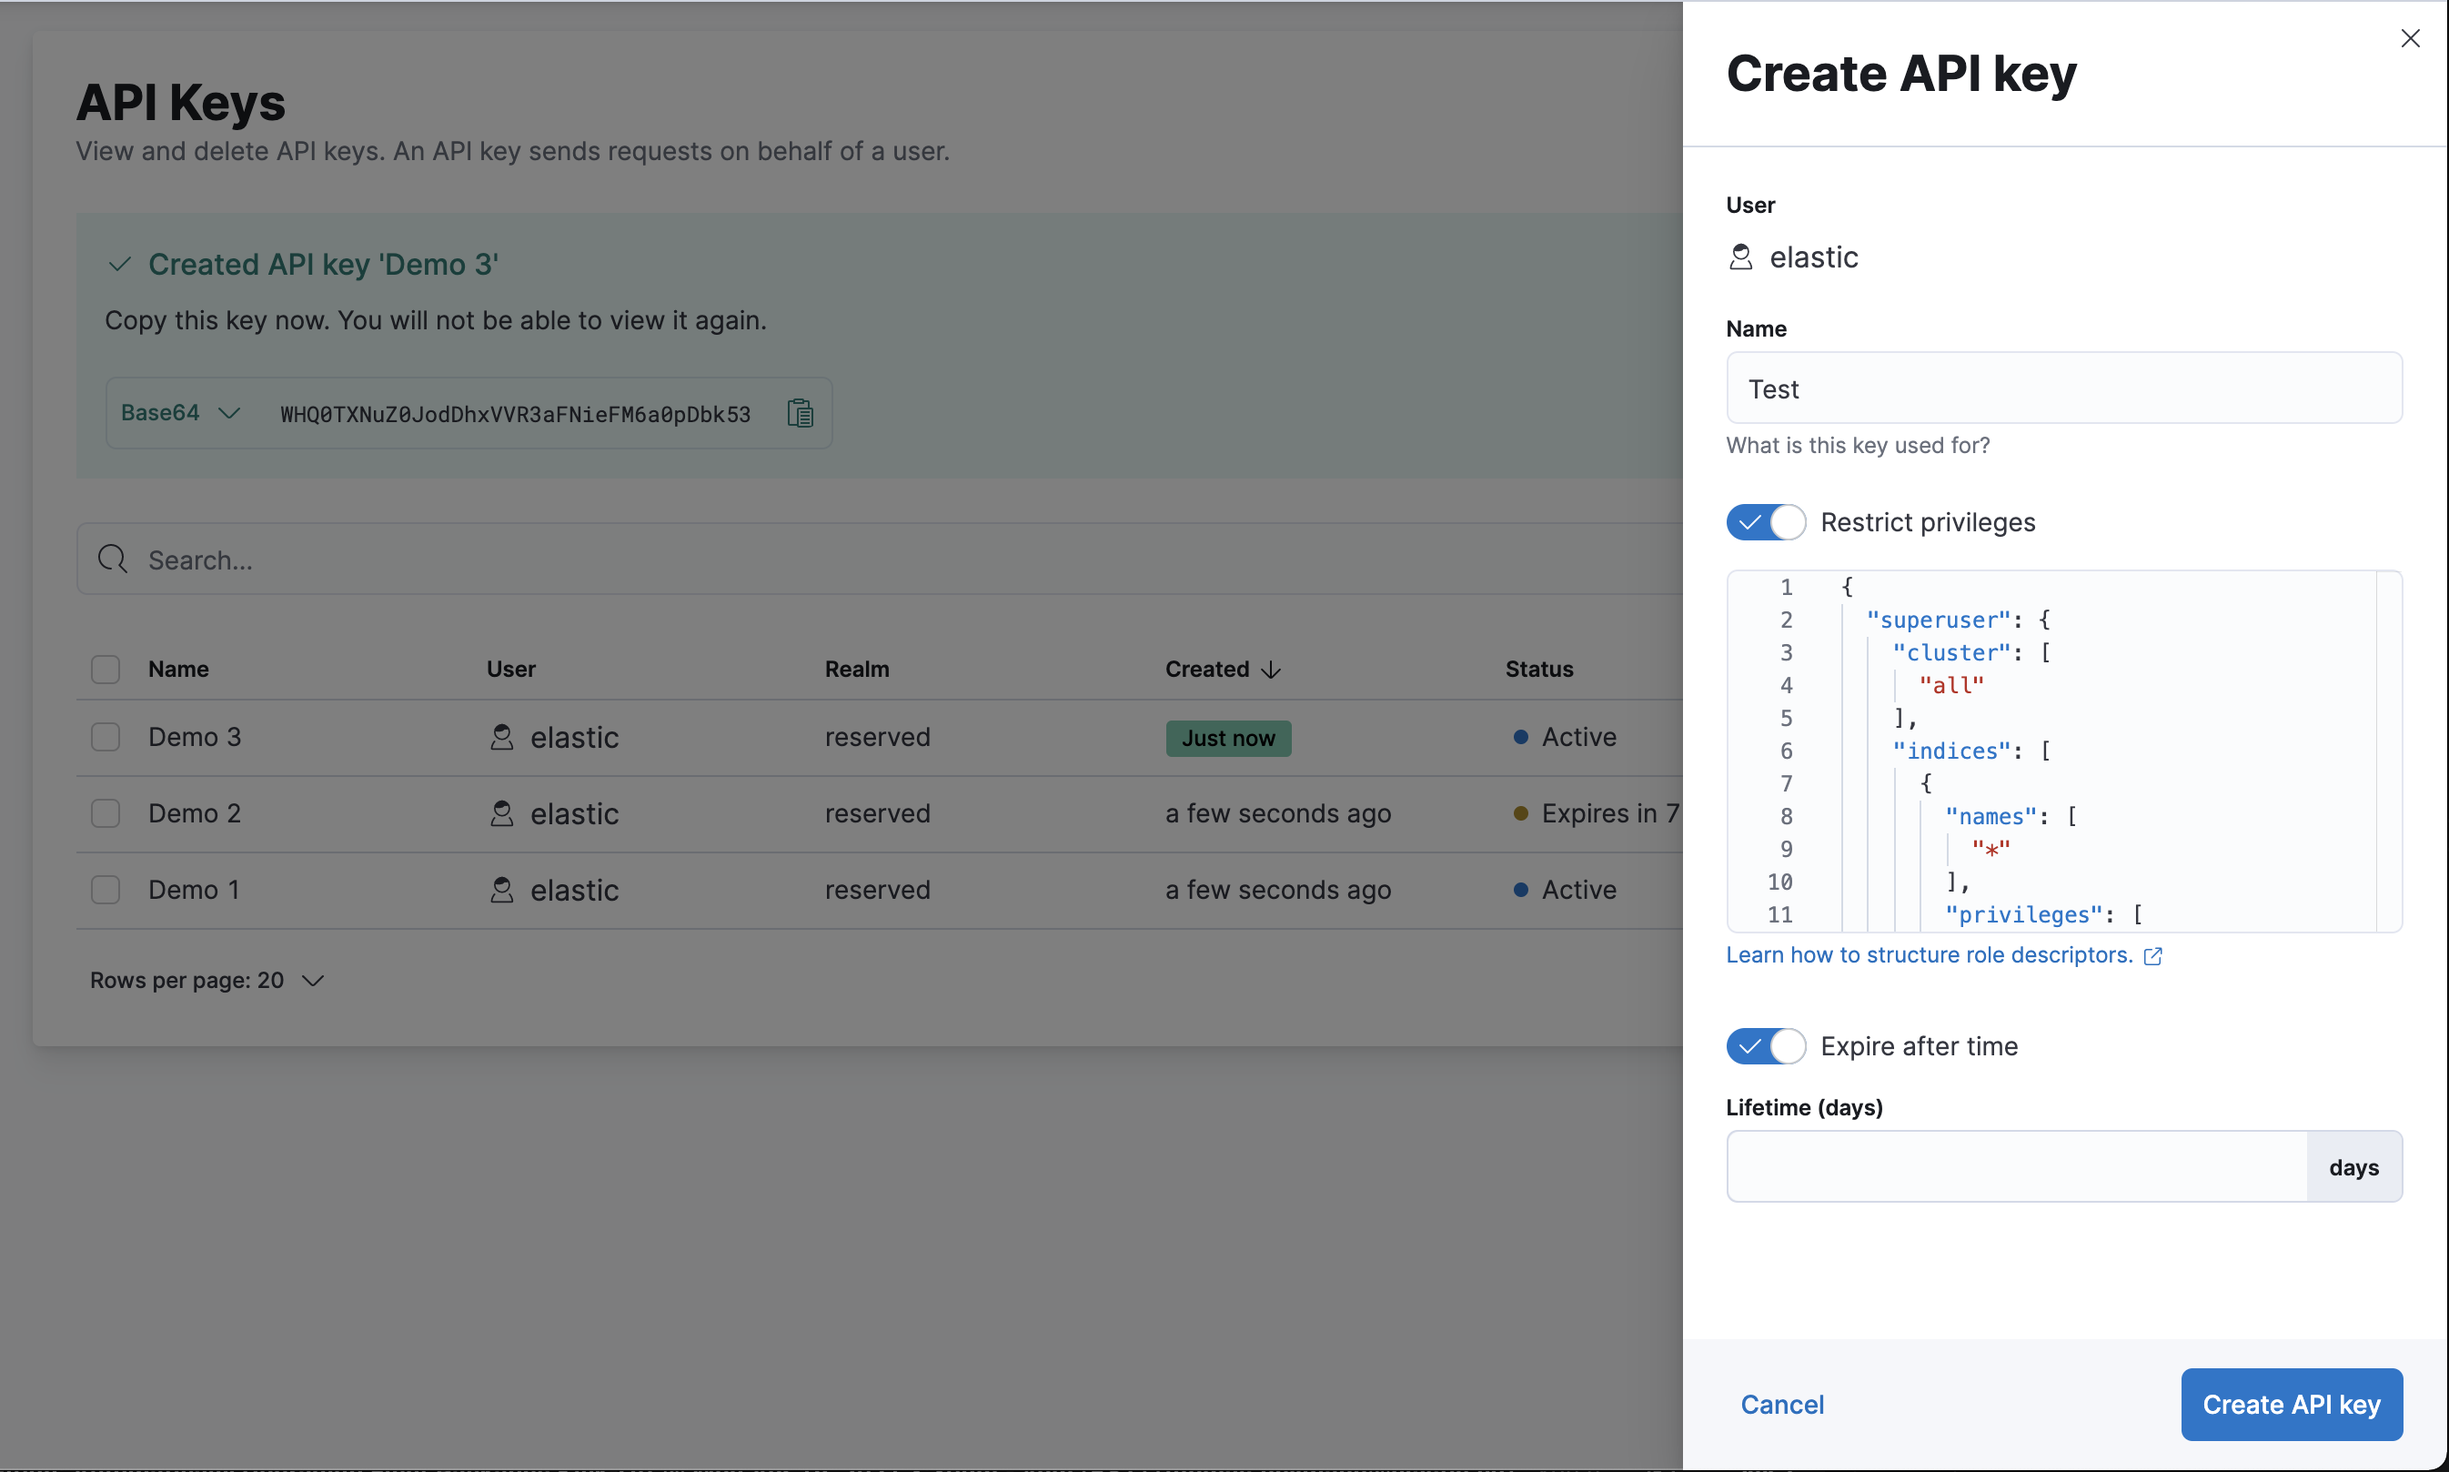
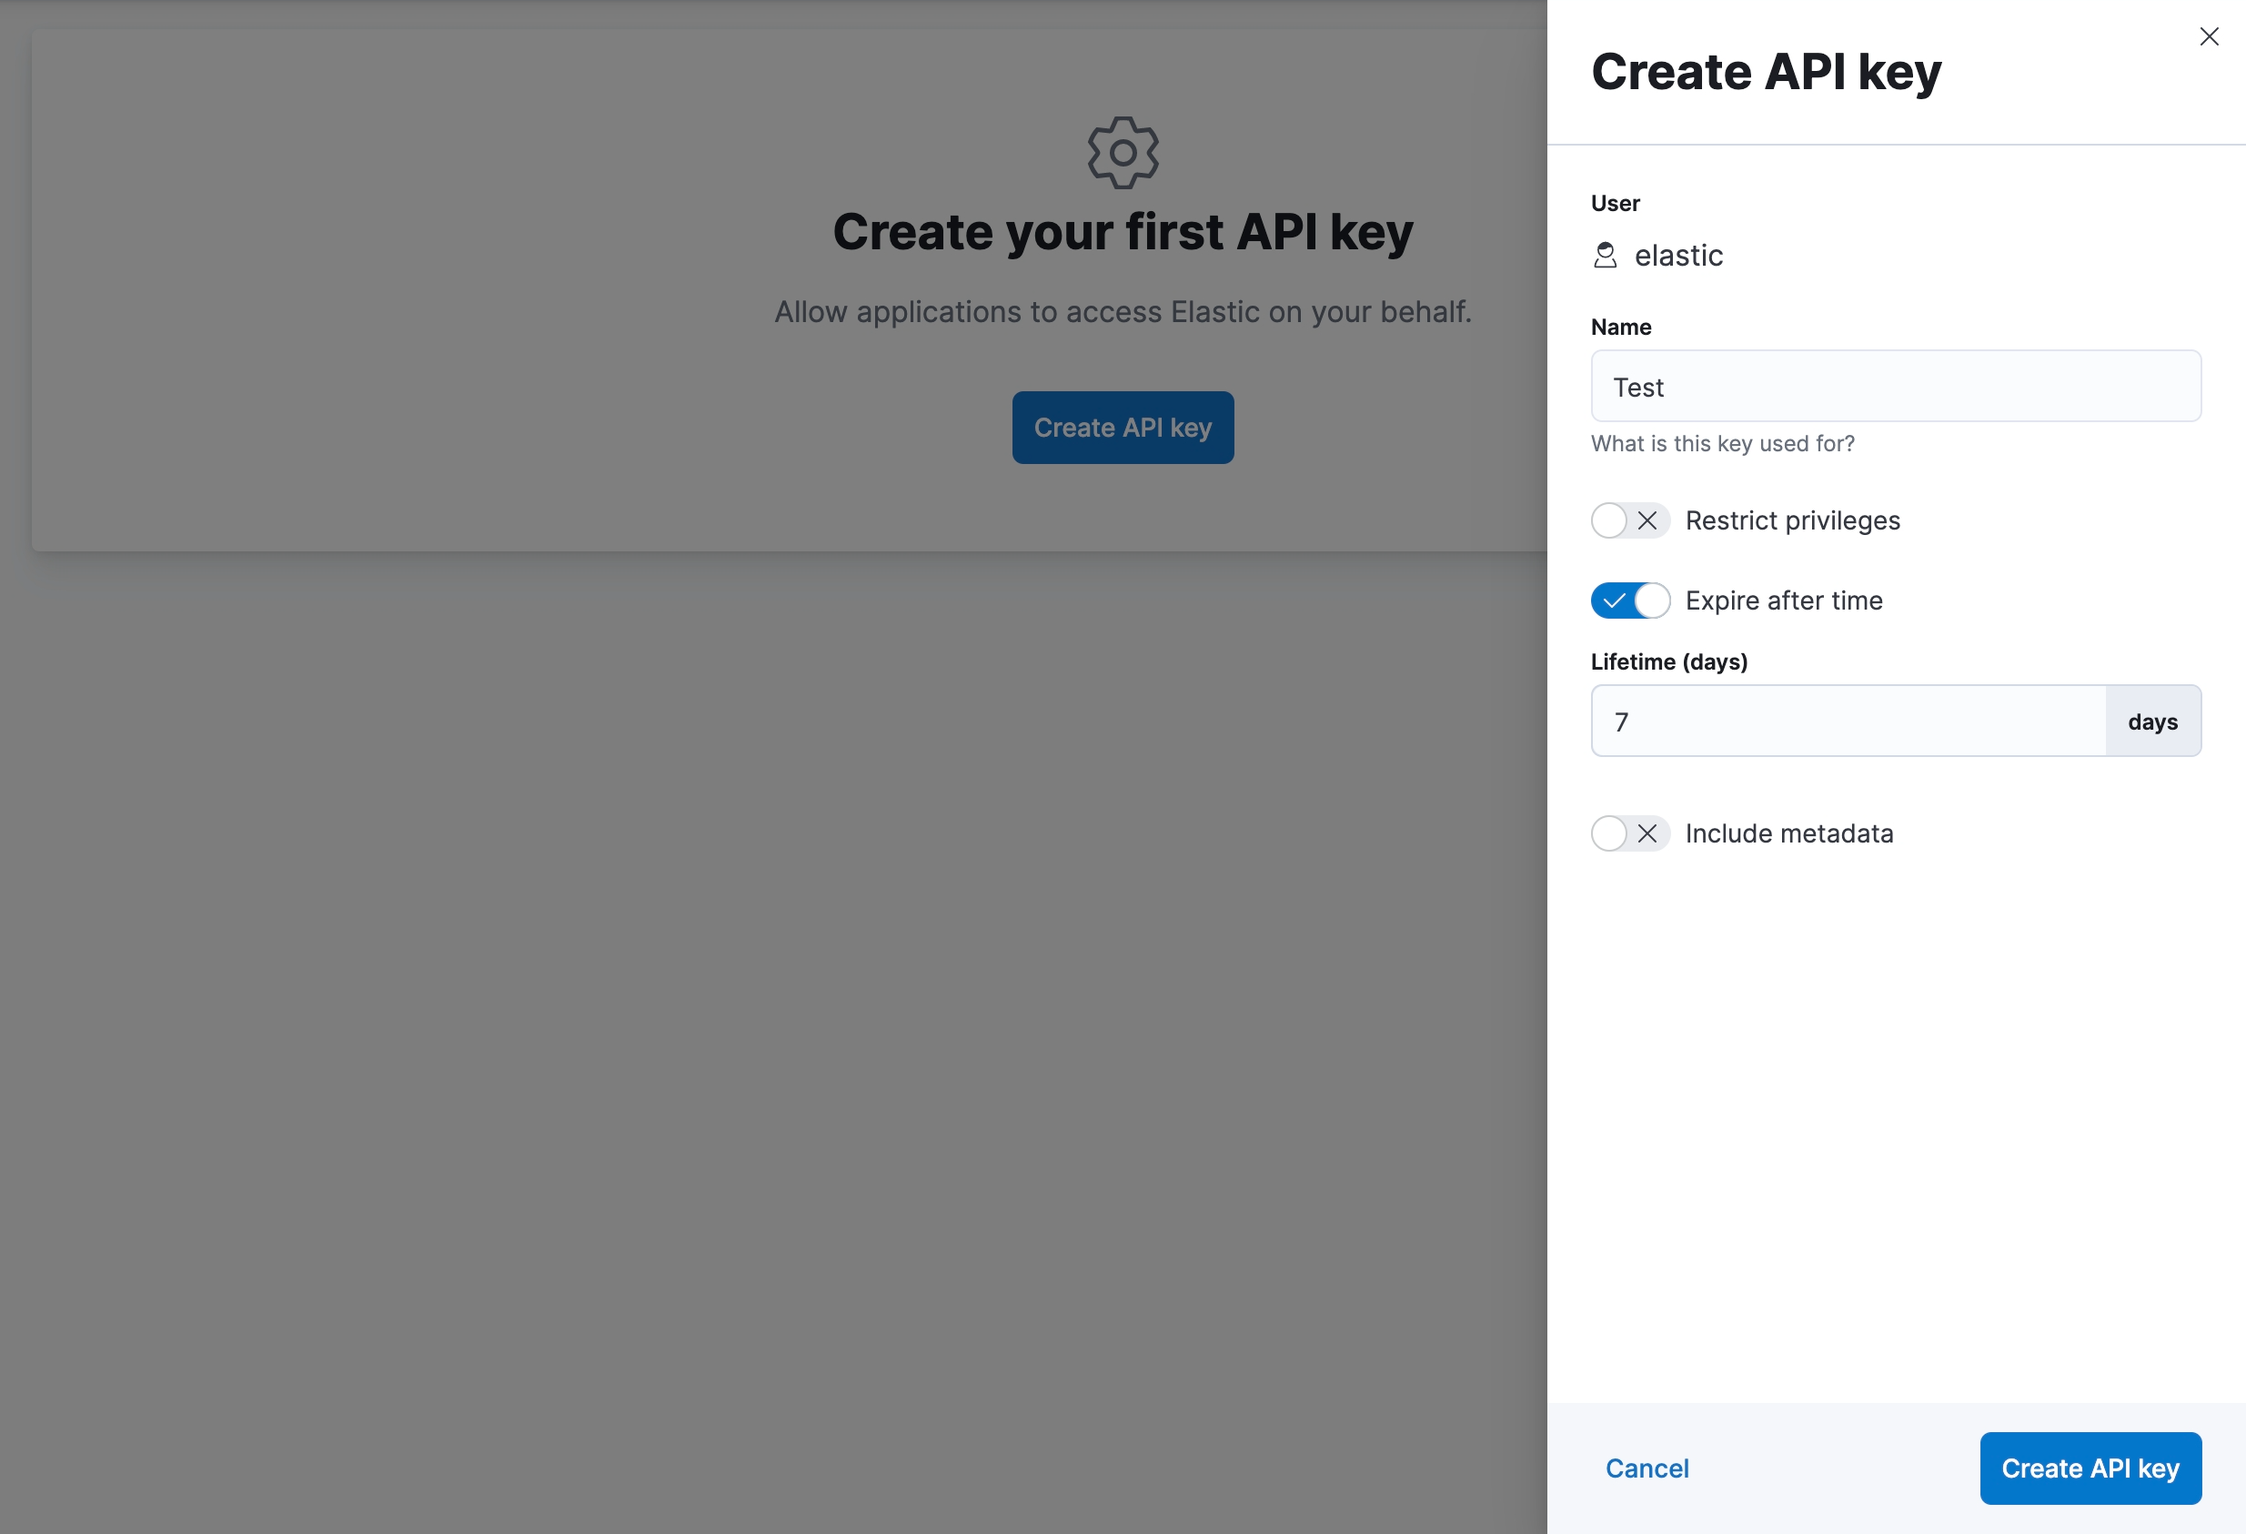
Create API keys with metadata (#100682)

diff --git a/x-pack/plugins/security/public/management/api_keys/api_keys_grid/create_api_key_flyout.tsx b/x-pack/plugins/security/public/management/api_keys/api_keys_grid/create_api_key_flyout.tsx
@@ -45,7 +45,9 @@ export interface ApiKeyFormValues {
   expiration: string;
   customExpiration: boolean;
   customPrivileges: boolean;
+  includeMetadata: boolean;
   role_descriptors: string;
+  metadata: string;
 }
 
 export interface CreateApiKeyFlyoutProps {
@@ -59,30 +61,9 @@ const defaultDefaultValues: ApiKeyFormValues = {
   expiration: '',
   customExpiration: false,
   customPrivileges: false,
-  role_descriptors: JSON.stringify(
-    {
-      'role-a': {
-        cluster: ['all'],
-        indices: [
-          {
-            names: ['index-a*'],
-            privileges: ['read'],
-          },
-        ],
-      },
-      'role-b': {
-        cluster: ['all'],
-        indices: [
-          {
-            names: ['index-b*'],
-            privileges: ['all'],
-          },
-        ],
-      },
-    },
-    null,
-    2
-  ),
+  includeMetadata: false,
+  role_descriptors: '{}',
+  metadata: '{}',
 };
 
 export const CreateApiKeyFlyout: FunctionComponent<CreateApiKeyFlyoutProps> = ({
@@ -227,7 +208,6 @@ export const CreateApiKeyFlyout: FunctionComponent<CreateApiKeyFlyoutProps> = ({
           <EuiSpacer />
           <EuiFormFieldset>
             <EuiSwitch
-              id="apiKeyCustom"
               label={i18n.translate(
                 'xpack.security.accountManagement.createApiKey.customPrivilegesLabel',
                 {
@@ -270,7 +250,6 @@ export const CreateApiKeyFlyout: FunctionComponent<CreateApiKeyFlyoutProps> = ({
           <EuiSpacer />
           <EuiFormFieldset>
             <EuiSwitch
-              name="customExpiration"
               label={i18n.translate(
                 'xpack.security.accountManagement.createApiKey.customExpirationLabel',
                 {
@@ -305,6 +284,48 @@ export const CreateApiKeyFlyout: FunctionComponent<CreateApiKeyFlyoutProps> = ({
                     defaultValue={form.values.expiration}
                     isInvalid={form.touched.expiration && !!form.errors.expiration}
                     fullWidth
+                  />
+                </EuiFormRow>
+                <EuiSpacer size="s" />
+              </>
+            )}
+          </EuiFormFieldset>
+
+          <EuiSpacer />
+          <EuiFormFieldset>
+            <EuiSwitch
+              label={i18n.translate(
+                'xpack.security.accountManagement.createApiKey.includeMetadataLabel',
+                {
+                  defaultMessage: 'Include metadata',
+                }
+              )}
+              checked={!!form.values.includeMetadata}
+              onChange={(e) => form.setValue('includeMetadata', e.target.checked)}
+            />
+            {form.values.includeMetadata && (
+              <>
+                <EuiSpacer size="m" />
+                <EuiFormRow
+                  helpText={
+                    <DocLink
+                      app="elasticsearch"
+                      doc="security-api-create-api-key.html#security-api-create-api-key-request-body"
+                    >
+                      <FormattedMessage
+                        id="xpack.security.accountManagement.createApiKey.metadataHelpText"
+                        defaultMessage="Learn how to structure metadata."
+                      />
+                    </DocLink>
+                  }
+                  error={form.errors.metadata}
+                  isInvalid={form.touched.metadata && !!form.errors.metadata}
+                >
+                  <CodeEditorField
+                    value={form.values.metadata!}
+                    onChange={(value) => form.setValue('metadata', value)}
+                    languageId="xjson"
+                    height={200}
                   />
                 </EuiFormRow>
                 <EuiSpacer size="s" />
@@ -363,6 +384,28 @@ export function validate(values: ApiKeyFormValues) {
     }
   }
 
+  if (values.includeMetadata) {
+    if (!values.metadata) {
+      errors.metadata = i18n.translate(
+        'xpack.security.management.apiKeys.createApiKey.metadataRequired',
+        {
+          defaultMessage: 'Enter metadata or disable this option.',
+        }
+      );
+    } else {
+      try {
+        JSON.parse(values.metadata);
+      } catch (e) {
+        errors.metadata = i18n.translate(
+          'xpack.security.management.apiKeys.createApiKey.invalidJsonError',
+          {
+            defaultMessage: 'Enter valid JSON.',
+          }
+        );
+      }
+    }
+  }
+
   return errors;
 }
 
@@ -374,5 +417,6 @@ export function mapValues(values: ApiKeyFormValues): CreateApiKeyRequest {
       values.customPrivileges && values.role_descriptors
         ? JSON.parse(values.role_descriptors)
         : undefined,
+    metadata: values.includeMetadata && values.metadata ? JSON.parse(values.metadata) : undefined,
   };
 }

diff --git a/x-pack/test/api_integration/apis/security/api_keys.ts b/x-pack/test/api_integration/apis/security/api_keys.ts
@@ -46,6 +46,23 @@ export default function ({ getService }: FtrProviderContext) {
             expect(name).to.eql('test_api_key');
           });
       });
+
+      it('should allow an API Key to be created with metadata', async () => {
+        await supertest
+          .post('/internal/security/api_key')
+          .set('kbn-xsrf', 'xxx')
+          .send({
+            name: 'test_api_key_with_metadata',
+            metadata: {
+              foo: 'bar',
+            },
+          })
+          .expect(200)
+          .then((response: Record<string, any>) => {
+            const { name } = response.body;
+            expect(name).to.eql('test_api_key_with_metadata');
+          });
+      });
     });
   });
 }

diff --git a/x-pack/plugins/security/server/authentication/api_keys/api_keys.ts b/x-pack/plugins/security/server/authentication/api_keys/api_keys.ts
@@ -30,15 +30,21 @@ export interface CreateAPIKeyParams {
   name: string;
   role_descriptors: Record<string, any>;
   expiration?: string;
+  metadata?: Record<string, any>;
 }
 
-interface GrantAPIKeyParams {
-  api_key: CreateAPIKeyParams;
-  grant_type: 'password' | 'access_token';
-  username?: string;
-  password?: string;
-  access_token?: string;
-}
+type GrantAPIKeyParams =
+  | {
+      api_key: CreateAPIKeyParams;
+      grant_type: 'password';
+      username: string;
+      password: string;
+    }
+  | {
+      api_key: CreateAPIKeyParams;
+      grant_type: 'access_token';
+      access_token: string;
+    };
 
 /**
  * Represents the params for invalidating multiple API keys

diff --git a/x-pack/plugins/security/server/routes/api_keys/create.test.ts b/x-pack/plugins/security/server/routes/api_keys/create.test.ts
@@ -85,6 +85,9 @@ describe('Create API Key route', () => {
         role_descriptors: {
           role_1: {},
         },
+        metadata: {
+          foo: 'bar',
+        },
       };
 
       const request = httpServerMock.createKibanaRequest({

diff --git a/x-pack/plugins/security/server/routes/api_keys/create.ts b/x-pack/plugins/security/server/routes/api_keys/create.ts
@@ -29,6 +29,7 @@ export function defineCreateApiKeyRoutes({
               defaultValue: {},
             }
           ),
+          metadata: schema.maybe(schema.object({}, { unknowns: 'allow' })),
         }),
       },
     },

diff --git a/x-pack/plugins/security/public/management/api_keys/api_keys_api_client.ts b/x-pack/plugins/security/public/management/api_keys/api_keys_api_client.ts
@@ -28,6 +28,7 @@ export interface CreateApiKeyRequest {
   name: string;
   expiration?: string;
   role_descriptors?: ApiKeyRoleDescriptors;
+  metadata?: Record<string, any>;
 }
 
 export interface CreateApiKeyResponse {

diff --git a/x-pack/plugins/security/common/model/api_key.ts b/x-pack/plugins/security/common/model/api_key.ts
@@ -15,6 +15,7 @@ export interface ApiKey {
   creation: number;
   expiration: number;
   invalidated: boolean;
+  metadata: Record<string, any>;
 }
 
 export interface ApiKeyToInvalidate {
